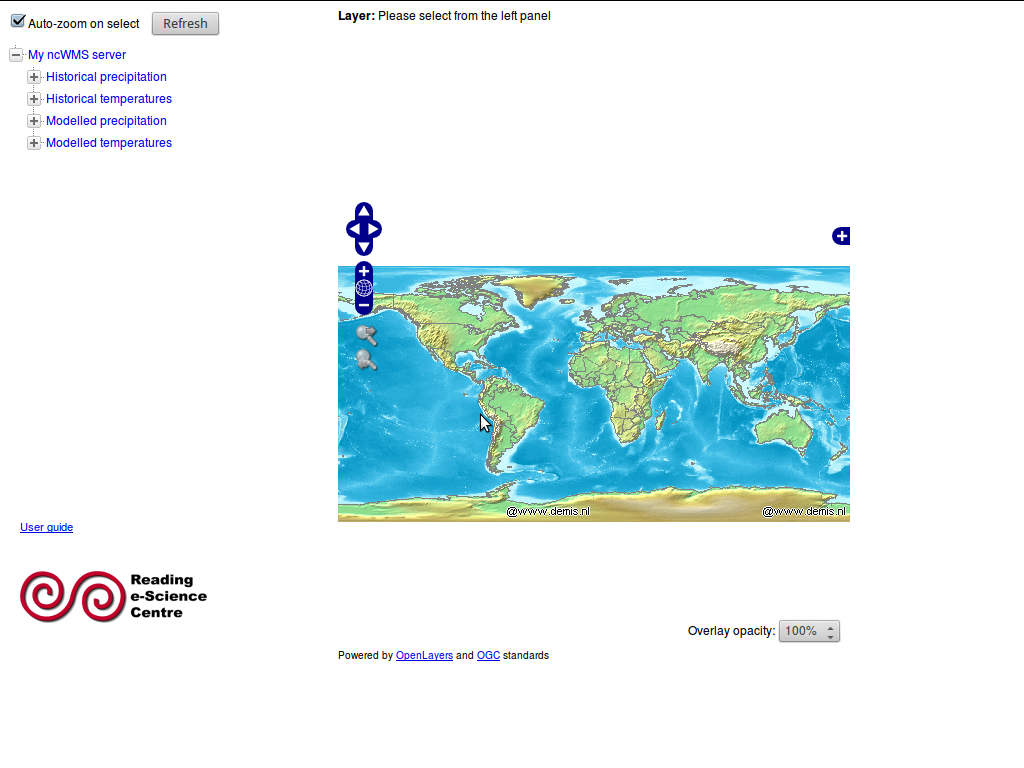
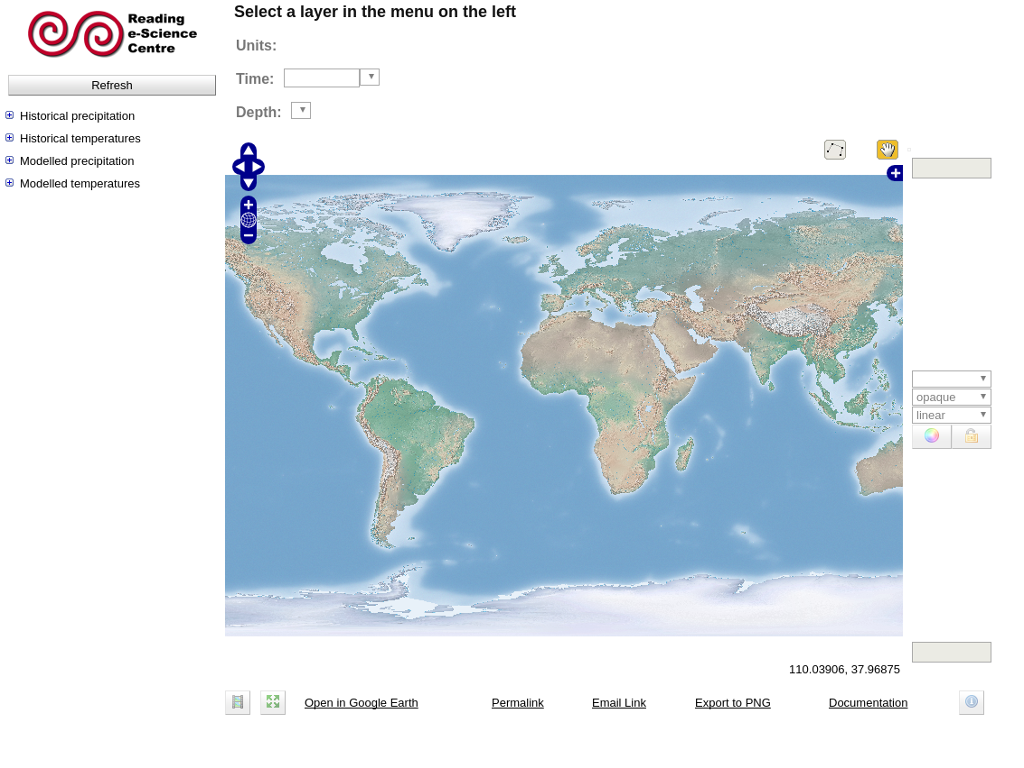
Updated ncWMS docs

diff --git a/conf.py b/conf.py
@@ -274,7 +274,7 @@ rst_epilog="""
 .. |version-mapslicer| replace:: 1.0.rc2
 .. |version-marble| replace:: 1.12.20
 .. |version-mb-system| replace:: 5.5.2274
-.. |version-ncWMS| replace:: 1.2
+.. |version-ncWMS| replace:: 2.2.7
 .. |version-opencpn| replace:: 4.2.0
 .. |version-openjump| replace:: 1.10.0
 .. |version-openlayers| replace:: 3.13.1

diff --git a/en/quickstart/ncWMS_quickstart.rst b/en/quickstart/ncWMS_quickstart.rst
@@ -1,5 +1,4 @@
-:Author: Guy Griffiths (guy.griffiths@rdg.ac.uk)
-:Reviewer: Jane Lewis (j.p.lewis@rdg.ac.uk)
+:Author: Guy Griffiths (guy.griffiths@the-iea.org)
 :Version: osgeo-live7.0
 :License: Creative Commons Attribution-ShareAlike 3.0 Unported  (CC BY-SA 3.0)
 
@@ -7,14 +6,14 @@
   :scale: 100 %
   :alt: ncWMS logo
   :align: right
-  :target: http://www.resc.rdg.ac.uk/trac/ncWMS/
+  :target: https://reading-escience-centre.gitbooks.io/ncwms-user-guide/content/
 
 
 ********************************************************************************
 ncWMS Quickstart
 ********************************************************************************
 
-ncWMS is a Web Map Service which allows the fast visualisation of data from NetCDF files and other sources of environmental data.  This quickstart guide describes how to explore the sample data provided using the Godiva2 web client.  For configuration and adding other data sources to the server, please consult the documentation on the `ncWMS website <http://www.resc.rdg.ac.uk/trac/ncWMS>`_.
+ncWMS is a Web Map Service which allows the fast visualisation of data from NetCDF files and other sources of environmental data.  This quickstart guide describes how to explore the sample data provided using the Godiva2 web client.  For configuration and adding other data sources to the server, please consult the documentation on the `ncWMS website <https://reading-escience-centre.gitbooks.io/ncwms-user-guide/content/>`_.
 
 .. contents:: Contents
 
@@ -23,11 +22,11 @@ Start ncWMS
 
 * Select :menuselection:`Geospatial --> Web Services --> ncWMS --> Start ncWMS`
 
-* After a few moments the application will start up and open a web browser at http://localhost:8080/ncWMS/godiva2.html
+* After a few moments the application will start up and open a web browser at http://localhost:8080/ncWMS2/Godiva3.html
 
 .. image:: ../../images/screenshots/1024x768/ncWMS-01-start_screen.png
     :scale: 55 %
-    
+
 Basic usage
 ===========
 
@@ -36,20 +35,17 @@ Use the left-hand menu to choose a dataset to view.  Clicking a dataset (or the 
 Navigating the map
 ------------------
 
-The interactive map can be dragged with the mouse to navigate around. Using the controls in the top left of the map you can zoom in and out. You can zoom quickly to a particular area by holding down Shift and dragging a rectangle on the map. You can automatically centre the current data overlay on the map by clicking "Fit layer to window" (above the map).
+The interactive map can be dragged with the mouse to navigate around. Using the controls in the top left of the map you can zoom in and out. You can zoom quickly to a particular area by holding down Shift and dragging a rectangle on the map.
 
 Selecting the vertical level
 ----------------------------
 
 If the variable you are viewing has a vertical dimension you will be able to select the vertical level using the drop-down box above the map.
 
-.. image:: ../../images/screenshots/800x600/ncWMS-01b-vertical_time.png
-    :scale: 55%
-
 Selecting the timestep
 ----------------------
 
-If the displayed variable has a time dimension a calendar control will appear above the map. Click on this control to select the date you wish to focus on. If there are several timesteps available for this day, use the drop-down box above the map to select the time. See below for instructions on creating animations and timeseries plots.
+If the displayed variable has a time dimension a date control will appear above the map. Click on this control to select the date you wish to focus on. If there are several timesteps available for this day, use the drop-down box above the map to select the time. See below for instructions on creating animations and timeseries plots.
 
 Finding the data value at a point
 ---------------------------------
@@ -65,17 +61,17 @@ Changing the style of the data display
 Adjusting the colour contrast range
 -----------------------------------
 
-When you first load up a variable it will appear with a default colour scale range. This range may not be appropriate for the geographical region and timestep you are interested in. By clicking "auto" (to the right of the colour scale bar) the colour scale range will be automatically stretched to suit the data currently displayed in the map. You can also manually change the colour scale range by editing the values at the top and bottom of the colour scale bar. A third way to adjust the colour scale range is to click on the map at any point. The small pop-up window contains links ("Set colour max" and "Set colour min") that you can click to set the upper or lower extreme of the colour scale to the data value at that point.
+When you first load up a variable it will appear with a default colour scale range. This range may not be appropriate for the geographical region and timestep you are interested in. By clicking "auto" (the colour wheel to the right of the colour scale bar) the colour scale range will be automatically stretched to suit the data currently displayed in the map. You can also manually change the colour scale range by editing the values at the top and bottom of the colour scale bar.
 
 Locking the scale range
 -----------------------
 
-Sometimes, when comparing two datasets, you might want to fix the colour scale range so that when you select a new variable, that variable is shaded with exactly the same colour scale. To do this, click the "lock" link, which is to the right of the colour scale bar. The colour scale range will then not be changed when a new variable is loaded and the scale range cannot be edited manually. However, the colour palette and the number of colour bands can still be modified while the scale range is locked. Click "unlock" to make the colour scale editable again.
+Sometimes, when comparing two datasets, you might want to fix the colour scale range so that when you select a new variable, that variable is shaded with exactly the same colour scale. To do this, click the "lock" link, which is the padlock icon to the right of the colour scale bar. The colour scale range will then not be changed when a new variable is loaded and the scale range cannot be edited manually. However, the colour palette and the number of colour bands can still be modified while the scale range is locked. Click the lock icon again to make the colour scale editable.
 
 Changing the colour palette
 ---------------------------
 
-The colour palette can be changed by clicking on the colour scale bar. A pop-up window will appear with the available palettes. Click on one to load the new palette. The window also contains a drop-down box to select the number of colour bands to use, from 10 (giving a contoured appearance) to 253 (smoothed).  Note that if the number of colour bands is changed, you will need to click on the desired palette to effect the change.
+The colour palette can be changed by clicking on the colour scale bar. A pop-up window will appear with the available palettes. Click on one to load the new palette. The window also contains a drop-down box to select the number of colour bands to use, from 10 (giving a contoured appearance) to 250 (smoothed).  Note that if the number of colour bands is changed, you will need to click on the desired palette to effect the change.  All colour palettes can be reversed by clicking the "Flip" button on the colour palette selector.
 
 Other parameters
 ----------------
@@ -85,20 +81,16 @@ Certain variables, particularly biological parameters, are best displayed with a
 Creating animations
 -------------------
 
-1) Select the first timestep for your animation using the calendar control as described above.
-2) Click "first frame" (above the map).
-3) Select the last timestep for your animation.
-4) Click "last frame".
-5) Click "Create animation". Note that the animation may take quite a while to appear.
-6) Click "Stop animation" (above the map) to stop the animation and return the controls to normal. 
+1) Click the animation wizard button beelow the lower left corner of the map.
+2) Select a start and end time for the animation
+3) Choose the granularity and frame rate for the animation
+4) Click "Go". Note that the animation may take quite a while to appear.
+6) Click the "Stop animation" button (where the wizard was) to stop the animation and return the controls to normal.
 
 Timeseries plots
 ----------------
 
-Follow steps 1. to 4. in "Creating animations" above. Then click on the map to select a data point and bring up the small pop-up, which will have a link "Create timeseries plot". Click this to bring up a pop-up window displaying a timeseries of the data value at the selected point over the selected time range.
-
-.. image:: ../../images/screenshots/1024x768/ncWMS-03-timeseries.png
-    :scale: 55 %
+Creating a timeseries plot uses a similar wizard to that used to create animations.  When finding the data value at a point, a link will be present to create a timeseries plot if the data have a time axis.  Timeseries plots open in a new window.
 
 Vertical sections and transects along arbitrary paths
 -----------------------------------------------------
@@ -113,7 +105,7 @@ A selection of background maps is available on which data can be projected. Sele
 Changing the map projection
 ---------------------------
 
-The map projection is changed by selecting a new background map as above. If the background map is in a different projection then the data overlay will be automatically reprojected into the new coordinate system. Godiva2 provides the option to select a background map in north or south polar stereographic projection. There may be a delay before the map appears in the new projection.
+The map projection is changed by selecting a new background map as above. If the background map is in a different projection then the data overlay will be automatically reprojected into the new coordinate system. Godiva3 provides the option to select a background map in north or south polar stereographic projection. There may be a delay before the map appears in the new projection.
 
 .. image:: ../../images/screenshots/1024x768/ncWMS-04-north_pole.png
     :scale: 55 %
@@ -121,4 +113,4 @@ The map projection is changed by selecting a new background map as above. If the
 Saving and emailing the view
 ----------------------------
 
-You may wish to save the current view to return to it later or share it with a colleague. The "Permalink" under the bottom right-hand corner of the map links to a complete URL that, when loaded, recreates the current view. Left-click on the permalink to bring up a new window with an identical view. Right-click on the permalink and select "Copy link location" or the equivalent for your web browser. You can then paste the link into a report, your notes or an email. You can also click on "email" (next to the permalink) to start a new email message in your default email client with the permalink already included in the message body. 
+You may wish to save the current view to return to it later or share it with a colleague. The "Permalink" under the bottom right-hand corner of the map links to a complete URL that, when loaded, recreates the current view. Left-click on the permalink to bring up a new window with an identical view. Right-click on the permalink and select "Copy link location" or the equivalent for your web browser. You can then paste the link into a report, your notes or an email. You can also click on "email" (next to the permalink) to start a new email message in your default email client with the permalink already included in the message body.

diff --git a/en/overview/ncWMS_overview.rst b/en/overview/ncWMS_overview.rst
@@ -1,4 +1,4 @@
-:Author: Guy Griffiths (guy.griffiths@reading.ac.uk)
+:Author: Guy Griffiths (guy.griffiths@the-iea.org)
 :Reviewer: Cameron Shorter
 :Version: osgeo-live7.0
 :License: Creative Commons Attribution 3.0 Unported (CC BY 3.0)
@@ -6,7 +6,7 @@
 .. image:: ../../images/project_logos/logo-ncWMS.png
  :alt: project logo
  :align: right
- :target: http://www.resc.rdg.ac.uk/trac/ncWMS/
+ :target: https://reading-escience-centre.gitbooks.io/ncwms-user-guide/content/
 
 ncWMS
 ================================================================================
@@ -18,7 +18,7 @@ ncWMS publishes multi-dimensional data (such as environmental and weather data) 
 
 .. image:: ../../images/screenshots/1024x768/ncWMS-03-timeseries.png
   :scale: 60 %
-  :alt: Screen Shot of GeoServer
+  :alt: Screen Shot of ncWMS
   :align: right
 
 
@@ -35,7 +35,7 @@ Core Features
 * Automatic recognition of vector-components and generation of vector arrows
 
 * Support for a large range of projections (for both source data and target images)
- 
+
 * Support for creating animations
 
 * Browser client included
@@ -56,21 +56,20 @@ Implemented Standards
 Details
 -------
 
-**Website:** http://www.resc.rdg.ac.uk/trac/ncWMS/
+**Website:** https://github.com/Reading-eScience-Centre/ncwms
 
-**Licence:** `Modified BSD License <http://www.resc.rdg.ac.uk/trac/ncWMS/wiki/LicencePage>`_
+**Licence:** `Modified BSD License <https://github.com/Reading-eScience-Centre/ncwms/releases/download/ncwms-2.2.7/licence.txt>`_
 
 **Software Version:** |version-ncWMS|
 
-**Supported Platforms:** All Java 1.5 platforms: Windows, Linux, Mac
+**Supported Platforms:** All Java 1.8 platforms: Windows, Linux, Mac
 
 **API Interfaces:** Java; WMS
 
-**Support:** http://www.resc.rdg.ac.uk/trac/ncWMS/wiki/MailingLists
+**Support:** https://github.com/Reading-eScience-Centre/ncwms/issues
 
 
 Quickstart
 ----------
 
 * :doc:`Quickstart documentation <../quickstart/ncWMS_quickstart>`
-
